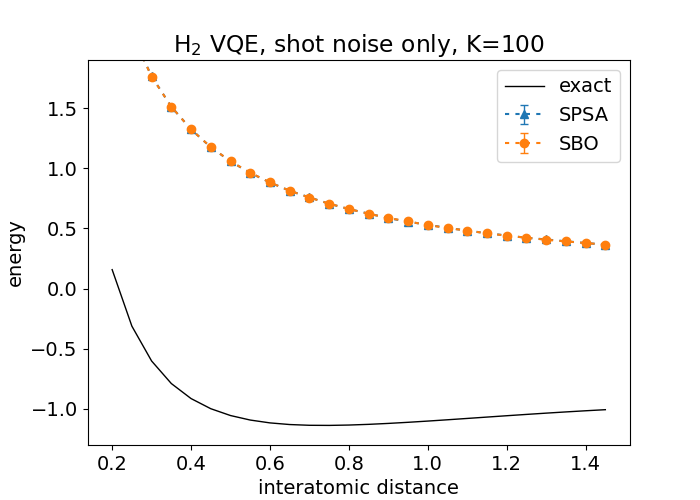
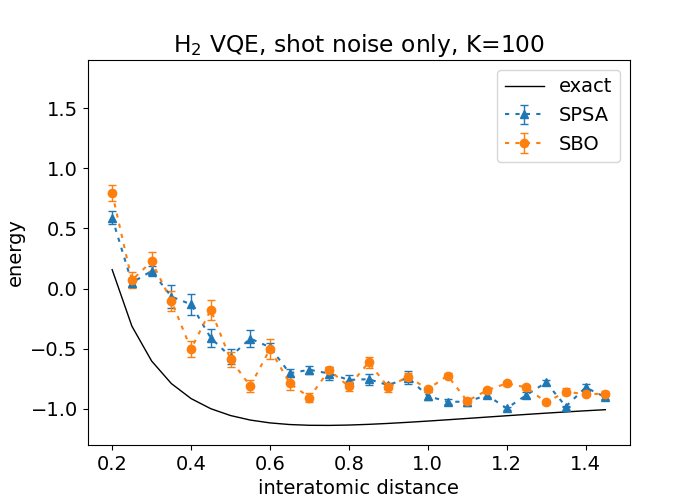
update batch_size

diff --git a/test_4q.py b/test_4q.py
@@ -1,11 +1,12 @@
 import os
+import torch
 import numpy as np
 from scipy import optimize
 import matplotlib.pyplot as plt
 from typing import Dict, Optional, Union, Callable, Tuple, List, Any
 
 # Primitives for execution
-from qiskit_aer import AerSimulator
+from qiskit_aer import AerSimulator, Aer
 from qiskit_aer.primitives import Sampler, Estimator
 
 # Minimum eigensolver from the new algorithms module
@@ -45,6 +46,7 @@ print(provider.backends())
 POINT = Union[float, np.ndarray]
 # Create an instance of AerSimulator (here, specifying GPU)
 sim = AerSimulator(device="GPU")
+qasm_backend = AerSimulator(method="automatic", shots=100)
 # Now call available_devices() on the instance
 print(sim.available_devices())
 
@@ -115,7 +117,14 @@ class Optimizer(qiskitopt.Optimizer):
             )
             new_x = res.x
             distance = np.linalg.norm(new_x - current_x, ord=np.inf)
+            #print("f(x) difference : ", abs(fun(new_x)-fun(current_x)))
+            #print("distance : ",distance)
+            #print("ratio : ", 0.1 / distance * abs(fun(new_x)-fun(current_x)))
+            self.batch_size = distance / max(abs(fun(new_x)-fun(current_x), 0.01))
+            print("batch_size : ",self.batch_size)
+            #self.batch_size = distance * 100
             current_x = new_x
+            #self.patch_size = distance * 
             if distance < (self.patch_size / 2) * (1 - self.epsilon_int):
                 # local minimum found within this patch area
                 local_minima_found.append(new_x)
@@ -349,7 +358,7 @@ if __name__ == "__main__":
     vqe_spsa_energies = {}
     nshots = 100
     repetition_count = 5
-
+    
     for distance in distances:
         exact_energies[distance] = []
         vqe_sbo_energies[distance] = []
@@ -363,7 +372,25 @@ if __name__ == "__main__":
         es_problem = driver.run()
         mapper = JordanWignerMapper()
 
+        backend_options = {"method": "automatic","device": "gpu"} if torch.cuda.is_available() else {"method": "automatic"}
+        estimator = Estimator(backend_options=backend_options, run_options={
+                        "shots": nshots
+                })
+        #print("Number of free parameters in UCCSD:", ansatz.num_parameters)
+
         for _ in range(repetition_count):
+            
+            # Exact solver
+            numpy_solver = NumPyMinimumEigensolver()
+            exact_energies[distance].append(solve(numpy_solver))
+
+            # VQE using our custom surrogate-based optimizer (SBO)
+            sbo_optimizer = Optimizer(
+                maxiter=20,
+                patch_size=0.15,
+                npoints_per_patch=4,
+                nfev_final_avg=4
+            )
             ansatz = UCCSD(
                 num_spatial_orbitals=2,
                 num_particles=(1,1),
@@ -372,34 +399,23 @@ if __name__ == "__main__":
                     2,(1,1),mapper,
                 )
             )
-            # Exact solver
-            numpy_solver = NumPyMinimumEigensolver()
-            exact_energies[distance].append(solve(numpy_solver))
-
-            # VQE using our custom surrogate-based optimizer (SBO)
-            sbo_optimizer = Optimizer(
-                maxiter=20,
-                patch_size=0.3,
-                npoints_per_patch=4,
-                nfev_final_avg=4
-            )
             vqe_solver = VQE(
-                Estimator(backend_options={
-                    "method": "automatic",
-                    "device": "GPU"  # directs simulation to the GPU
-                }), ansatz,
-                optimizer=sbo_optimizer
+                estimator, ansatz, optimizer=sbo_optimizer
             )
             vqe_sbo_energies[distance].append(solve(vqe_solver))
 
             # VQE with SPSA optimizer on ideal simulator, num function evals=20
-            spsa_optimizer = SPSA(maxiter=20)
+            spsa_optimizer = SPSA(maxiter=10)
+            ansatz = UCCSD(
+                num_spatial_orbitals=2,
+                num_particles=(1,1),
+                qubit_mapper=mapper,
+                initial_state=HartreeFock(
+                    2,(1,1),mapper,
+                )
+            )
             vqe_solver = VQE(
-                Estimator(backend_options={
-                    "method": "automatic",
-                    "device": "GPU"  # directs simulation to the GPU
-                }), ansatz,
-                optimizer=spsa_optimizer
+                estimator, ansatz, optimizer=spsa_optimizer
             )
             vqe_spsa_energies[distance].append(solve(vqe_solver))
 

diff --git a/test_2q.py b/test_2q.py
@@ -381,8 +381,7 @@ if __name__ == "__main__":
             )
             vqe_solver = VQE(
                 Estimator(backend_options={
-                    "method": "automatic",
-                    "device": "GPU"  # directs simulation to the GPU
+                    "method": "automatic"
                 }), ansatz,
                 optimizer=sbo_optimizer
             )
@@ -392,8 +391,7 @@ if __name__ == "__main__":
             spsa_optimizer = SPSA(maxiter=20)
             vqe_solver = VQE(
                 Estimator(backend_options={
-                    "method": "automatic",
-                    "device": "GPU"  # directs simulation to the GPU
+                    "method": "automatic"
                 }), ansatz,
                 optimizer=spsa_optimizer
             )
